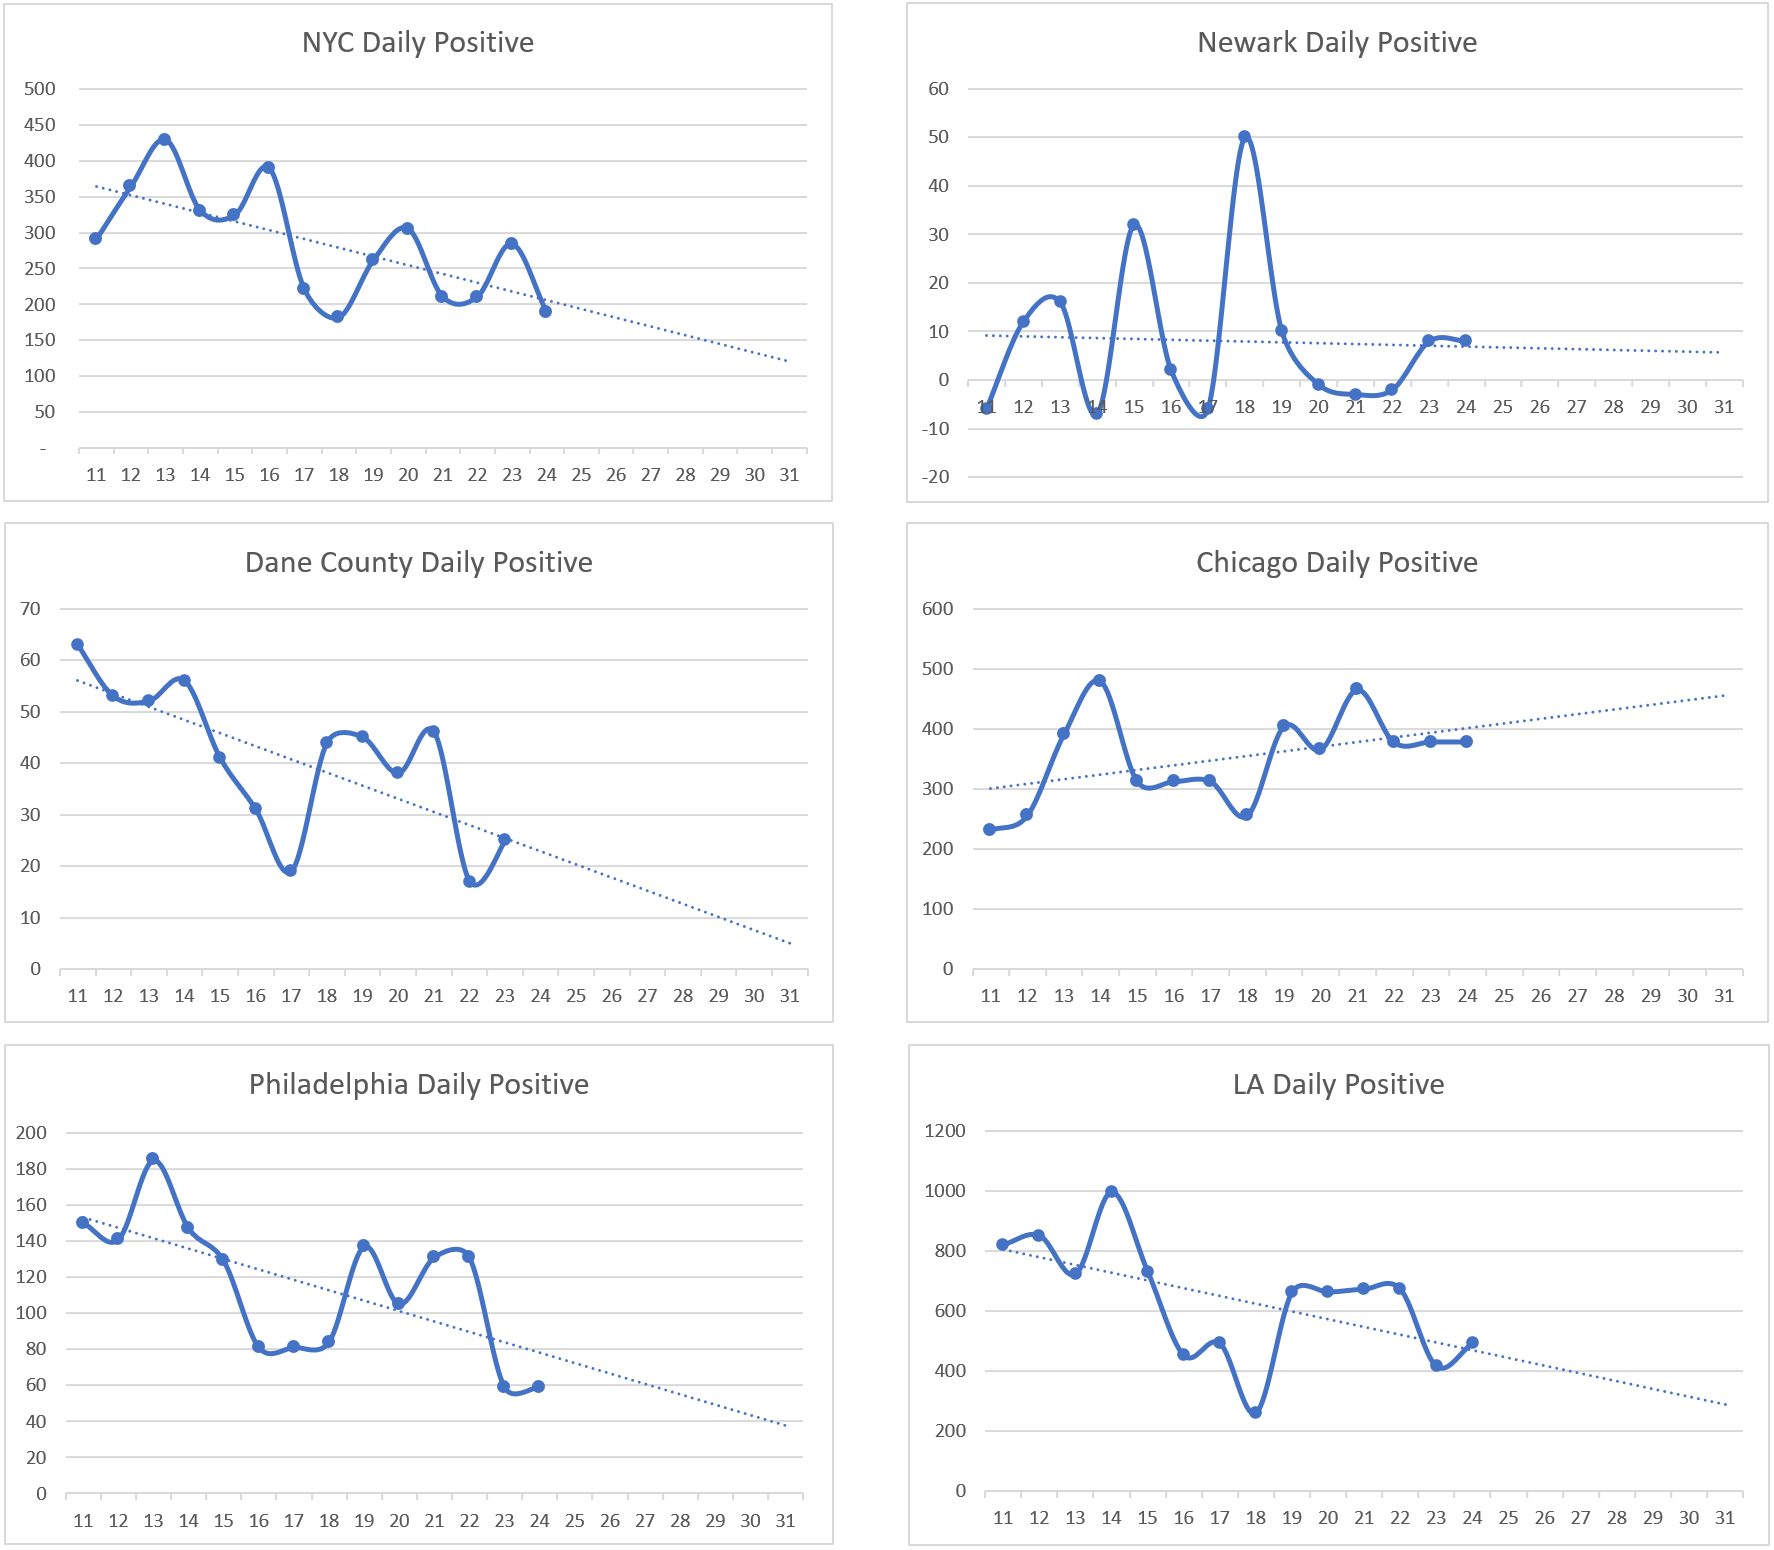
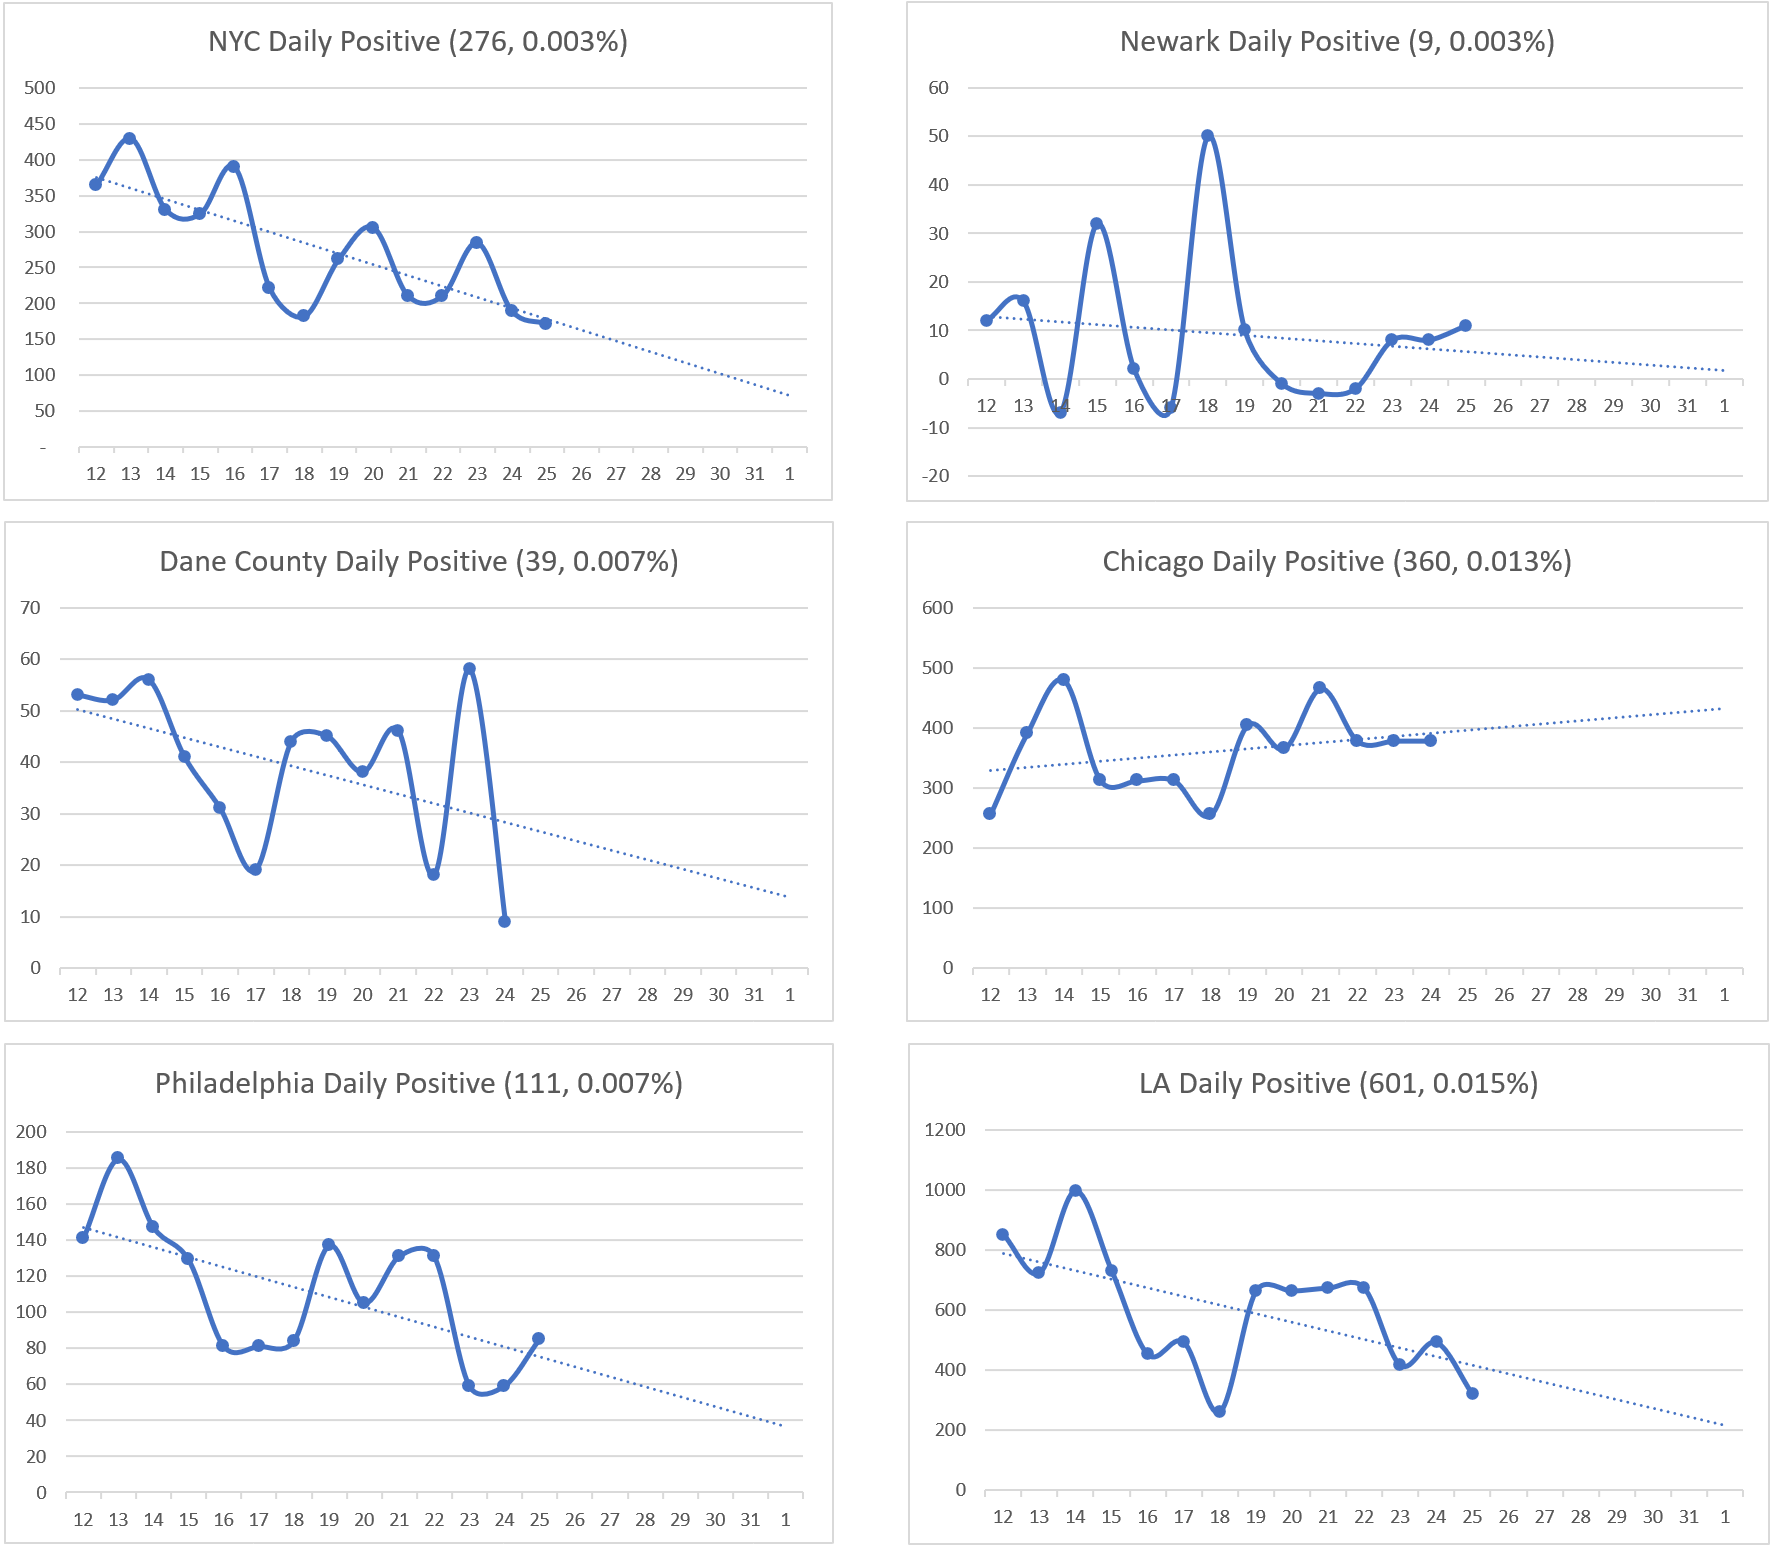
update 8/25 status, update paragraphs to figcaption, add title to images

diff --git a/index.html b/index.html
@@ -19,20 +19,25 @@
 
 <body class="container-fluid">
 	<h1> CoronaV for Friends</h1>
-	<h2> Data updated at Aug 24 2020 EST 20:00</h2>
+	<h2> Data updated at Aug 25 2020 EST 20:25</h2>
 	<hr>
 	<main>
 		<div class="row">
-			<img class="col-lg-6 col-md-6 numberInfos" src="current-graph.png" alt="currentSituation-graph.png">
-			<img class="col-lg-6 col-md-6 numberInfos" src="current.png" alt="currentSituation.png">
-		</div>
+			<figure class="col-lg-6 col-md-6" >
+				<figcaption class="imgTitle">City Daily Positive (AVG Pos Num, AVG Pos Num / Population)</figcaption>
+				<img class="numberInfos" src="current-graph.png" alt="currentSituation-graph.png">
+				<figcaption>* The daily count numbers for NYC, Chicago, Philadelphia will not follow "official daily count", but will be counted as the increased number of cumulative positive numbers.</figcaption>
+				<figcaption>** The reason is because "official daily count" was unable to show if there was a downward or upward trend in positive numbers.</figcaption>
+				<figcaption>* (Dane County will keep using "official daily count", and Newark and Los Angeles do not have "official daily count")</figcaption>
+			</figure>
 
-		<p>* The daily count graph numbers for NYC, Chicago, Philadelphia will not follow "official daily count",</p>
-		<p>* but will be counted as the increased number of cumulative positive numbers.</p>
-		<p>** The reason is because "official daily count" was unable to show if there was a downward or upward trend in positive numbers.</p>
-		<p>* (Dane County will keep using "official daily count", and Newark and Los Angeles do not have "official daily count")</p>
-		<p>* Yellow boxes on the table are estimations.</p>
-		<p>* "Area" is land area (except for Seoul and NY being land+water).</p>
+			<figure class="col-lg-6 col-md-6">
+				<figcaption class="imgTitle">Current</figcaption>
+				<img class="numberInfos" src="current.png" alt="currentSituation.png">
+				<figcaption>* Yellow boxes on the table are estimations.</figcaption>
+				<figcaption>* "Area" is land area (except for Seoul and NY being land+water).</figcaption>
+			</figure>
+		</div>
 
 	</main>
 	<hr>

diff --git a/style.css b/style.css
@@ -5,7 +5,7 @@ hr {
 }
 
 .numberInfos {
-  height: 50%;
+  width: 100%
 }
 
 p {
@@ -14,4 +14,10 @@ p {
 
 .container-fluid {
   padding: 3%;
+}
+
+.imgTitle {
+  font-size: 20px;
+  text-align: center;
+  font-weight: bold;
 }
